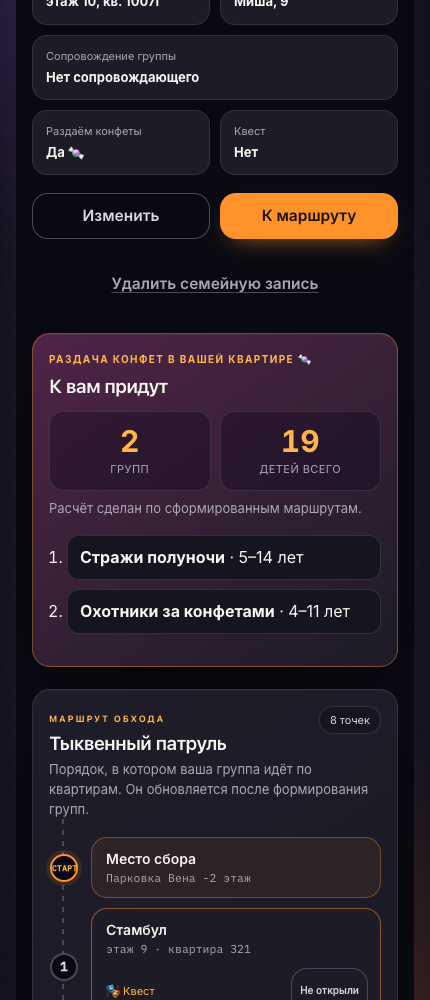
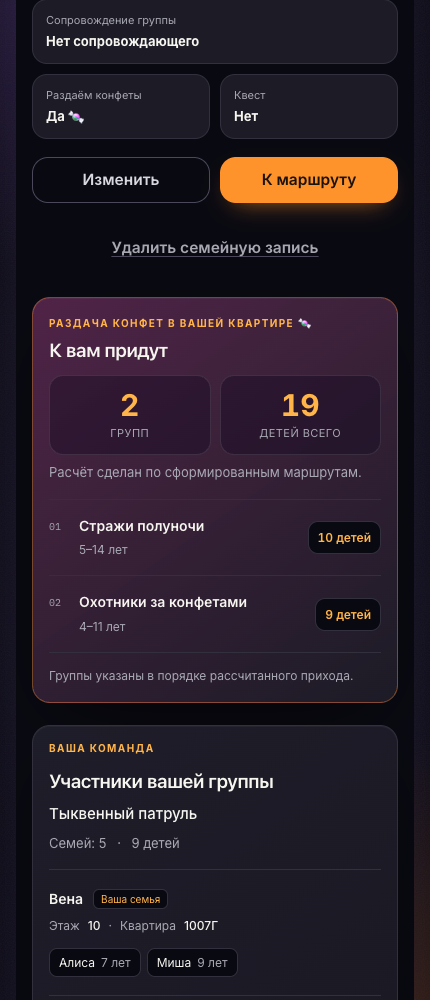
Release 1.0.29: show visiting counts and private group roster

diff --git a/public/app.js b/public/app.js
@@ -417,7 +417,7 @@
           <h2>Монстрополия</h2>
           <p>Собираем костюмы и конфеты</p>
           <span class="loading-track" aria-hidden="true"><i></i></span>
-          <span class="loading-version">Версия 1.0.28</span>
+          <span class="loading-version">Версия 1.0.29</span>
           <div class="loading-fallback" id="loadingFallback" hidden>
             <p>Загрузка заняла больше обычного. Проверьте соединение и попробуйте ещё раз.</p>
             <button class="loading-retry" type="button" onclick="window.__MONSTER_BOOT.retry()">Повторить загрузку</button>
@@ -844,7 +844,7 @@
       <div class="family-state-actions"><button id="editFamilyBtn" class="secondary">Изменить</button>
         <button id="showRouteBtn">К маршруту</button></div>
       <button id="deleteFamilyBtn" class="family-delete-button">Удалить семейную запись</button>
-    </section>${renderIncomingVisitsCard()}${state.group ? renderRouteCard() : family.walking ? renderWaitingCard() : ''}`;
+    </section>${renderIncomingVisitsCard()}${renderGroupMembersCard()}${state.group ? renderRouteCard() : family.walking ? renderWaitingCard() : ''}`;
     bindAdminButton();
     bindCountdown();
     bindTutorialButton();
@@ -870,7 +870,24 @@
       <h3>К вам придут</h3><div class="incoming-visits-grid">
         <div><strong>${visits.groupCount}</strong><span>групп</span></div>
         <div><strong>${visits.childCount}</strong><span>детей всего</span></div>
-      </div><p class="muted">${note}</p>${visits.groups?.length ? `<ol class="plain-list">${visits.groups.map((group) => `<li><strong>${esc(group.name)}</strong> · ${group.ageMin === null || group.ageMax === null ? 'возраст не указан' : group.ageMin === group.ageMax ? `${group.ageMin} лет` : `${group.ageMin}–${group.ageMax} лет`}</li>`).join('')}</ol>` : ''}</section>`;
+      </div><p class="muted">${note}</p>${visits.groups?.length ? `<ol class="gd-visitors" aria-label="Порядок прихода групп">${visits.groups.map((group) => `<li class="gd-visitor"><div><h4 class="gd-visitor-name">${esc(group.name)}</h4><p class="gd-age">${group.ageMin === null || group.ageMax === null ? 'Возраст не указан' : group.ageMin === group.ageMax ? `${group.ageMin} лет` : `${group.ageMin}–${group.ageMax} лет`}</p></div><span class="gd-count">${esc(pluralChildren(Number(group.childCount || 0)))}</span></li>`).join('')}</ol><p class="gd-note">Группы указаны в порядке рассчитанного прихода.</p>` : ''}</section>`;
+  }
+  function renderGroupMembersCard() {
+    const families = state.group?.families;
+    if (!families?.length) return '';
+    const childrenCount = families.reduce((sum, family) => sum + family.children.length, 0);
+    return `<section class="card gd-members" aria-labelledby="groupMembersTitle"><div class="countdown-kicker">Ваша команда</div>
+      <h3 id="groupMembersTitle">Участники вашей группы</h3><p class="gd-group-name">${esc(groupTitle(state.group))}</p>
+      <p class="gd-summary">Семей: ${families.length} <span aria-hidden="true">·</span> ${esc(pluralChildren(childrenCount))}</p>
+      <ul class="gd-families" aria-label="Семьи вашей группы">${families.map((family) => `<li class="gd-family">
+        <div class="gd-family-heading"><h4 class="gd-family-name">${esc(family.tower)}</h4>${family.isOwnFamily ? '<span class="gd-own">Ваша семья</span>' : ''}</div>
+        <p class="gd-address">Этаж <strong>${esc(family.floor)}</strong><span aria-hidden="true">·</span> Квартира <strong>${esc(family.apartmentCode)}</strong></p>
+        <ul class="gd-children" aria-label="Дети семьи">${family.children.map((child) => `<li class="gd-child">${esc(child.name)}<span>${esc(child.age)} ${ageWord(Number(child.age))}</span></li>`).join('')}</ul>
+      </li>`).join('')}</ul><p class="gd-note">Состав виден только семьям вашей группы.</p></section>`;
+  }
+  function ageWord(age) {
+    const mod10 = age % 10, mod100 = age % 100;
+    return mod10 === 1 && mod100 !== 11 ? 'год' : mod10 >= 2 && mod10 <= 4 && (mod100 < 12 || mod100 > 14) ? 'года' : 'лет';
   }
   function renderEditForm() {
     stopCountdown();

diff --git a/public/index.html b/public/index.html
@@ -200,11 +200,11 @@
 <link href="https://fonts.googleapis.com/css2?family=IBM+Plex+Mono:wght@400;500&amp;family=Inter:wght@400;500;600;700&amp;family=Space+Grotesk:wght@500;600;700&amp;display=swap" rel="stylesheet" media="print" onload="this.media='all'" />
 <noscript><link href="https://fonts.googleapis.com/css2?family=IBM+Plex+Mono:wght@400;500&amp;family=Inter:wght@400;500;600;700&amp;family=Space+Grotesk:wght@500;600;700&amp;display=swap" rel="stylesheet" /></noscript>
 <link rel="stylesheet" href="style.css?v=20260928-15" media="print" onload="window.__MONSTER_BOOT.resourceLoaded('base', this)" onerror="window.__MONSTER_BOOT.mark('resource_error', { resource: 'style.css' })" />
-<link rel="stylesheet" href="app-redesign.css?v=20261011-1" media="print" onload="window.__MONSTER_BOOT.resourceLoaded('redesign', this)" onerror="window.__MONSTER_BOOT.mark('resource_error', { resource: 'app-redesign.css' })" />
-<noscript><link rel="stylesheet" href="style.css?v=20260928-15" /><link rel="stylesheet" href="app-redesign.css?v=20261011-1" /></noscript>
+<link rel="stylesheet" href="app-redesign.css?v=1.0.29" media="print" onload="window.__MONSTER_BOOT.resourceLoaded('redesign', this)" onerror="window.__MONSTER_BOOT.mark('resource_error', { resource: 'app-redesign.css' })" />
+<noscript><link rel="stylesheet" href="style.css?v=20260928-15" /><link rel="stylesheet" href="app-redesign.css?v=1.0.29" /></noscript>
 <script defer src="platform-sdk.js?v=20260927-8" onload="window.__MONSTER_BOOT.mark('resource_loaded', { resource: 'platform-sdk.js' })" onerror="window.__MONSTER_BOOT.mark('resource_error', { resource: 'platform-sdk.js' })"></script>
 <script defer src="towers-config.js" onload="window.__MONSTER_BOOT.mark('resource_loaded', { resource: 'towers-config.js' })" onerror="window.__MONSTER_BOOT.mark('resource_error', { resource: 'towers-config.js' })"></script>
-<script defer src="app.js?v=1.0.28" onload="window.__MONSTER_BOOT.mark('resource_loaded', { resource: 'app.js' })" onerror="window.__MONSTER_BOOT.mark('resource_error', { resource: 'app.js' })"></script>
+<script defer src="app.js?v=1.0.29" onload="window.__MONSTER_BOOT.mark('resource_loaded', { resource: 'app.js' })" onerror="window.__MONSTER_BOOT.mark('resource_error', { resource: 'app.js' })"></script>
 </head>
 <body class="app-page">
   <div class="stage" aria-hidden="true"></div>
@@ -221,7 +221,7 @@
               <h2>Монстрополия</h2>
               <p>Собираем костюмы и конфеты</p>
               <span class="loading-track" aria-hidden="true"><i></i></span>
-              <span class="loading-version">Версия 1.0.28</span>
+              <span class="loading-version">Версия 1.0.29</span>
               <div class="loading-fallback" id="loadingFallback" hidden>
                 <p>Загрузка заняла больше обычного. Проверьте соединение и попробуйте ещё раз.</p>
                 <button class="loading-retry" type="button" onclick="window.__MONSTER_BOOT.retry()">Повторить загрузку</button>

diff --git a/public/app-redesign.css b/public/app-redesign.css
@@ -404,3 +404,27 @@
   .app-page .magic-orbit, .app-page .mote, .app-page .cd-n.magic-pop { animation: none !important; }
   .app-page .tutorial-slide.active { animation: none !important; }
 }
+.app-page .gd-visitors { margin: 16px 0 0; padding: 0; list-style: none; counter-reset: visits; }
+.app-page .gd-visitor { counter-increment: visits; display: grid; grid-template-columns: 20px minmax(0, 1fr) auto; gap: 10px; align-items: center; padding: 16px 0; border-top: 1px solid var(--border); }
+.app-page .gd-visitor::before { content: counter(visits, decimal-leading-zero); align-self: start; padding-top: 3px; color: var(--muted); font: 400 10px/1.5 var(--font-mono); }
+.app-page .gd-visitor-name { margin: 0; font-size: 14px; line-height: 1.45; font-weight: 600; overflow-wrap: anywhere; }
+.app-page .gd-age { margin: 5px 0 0; color: var(--muted); font-size: 12px; }
+.app-page .gd-count { padding: 8px 9px; border: 1px solid var(--border); border-radius: 10px; background: var(--ink); color: var(--accent-hi); font-size: 12px; font-weight: 600; white-space: nowrap; font-variant-numeric: tabular-nums; }
+.app-page .gd-members { animation: gd-enter .36s ease both; }
+.app-page .gd-members h3 { margin-bottom: 8px; }
+.app-page .gd-group-name { margin: 8px 0; font-size: 15px; font-weight: 500; overflow-wrap: anywhere; }
+.app-page .gd-summary { margin: 8px 0 16px; color: var(--muted); font-size: 13px; }
+.app-page .gd-summary span { margin-inline: 7px; }
+.app-page .gd-families { list-style: none; margin: 0; padding: 0; }
+.app-page .gd-family { padding: 18px 0; border-top: 1px solid var(--border); }
+.app-page .gd-family-heading { display: flex; flex-wrap: wrap; align-items: center; gap: 7px 10px; }
+.app-page .gd-family-name { margin: 0; font-size: 14px; line-height: 1.5; font-weight: 600; overflow-wrap: anywhere; }
+.app-page .gd-own { padding: 3px 7px; border: 1px solid var(--border); border-radius: 6px; color: var(--accent-hi); background: var(--ink); font-size: 10px; }
+.app-page .gd-address { display: flex; flex-wrap: wrap; gap: 4px 8px; margin: 8px 0 12px; color: var(--muted); font-size: 12px; }
+.app-page .gd-address strong { color: var(--fg); font-weight: 500; }
+.app-page .gd-children { display: flex; flex-wrap: wrap; gap: 6px; padding: 0; margin: 0; list-style: none; }
+.app-page .gd-child { display: inline-flex; flex-wrap: wrap; gap: 6px; max-width: 100%; border-radius: 8px; border: 1px solid var(--border); background: var(--ink); padding: 6px 9px; font-size: 12px; overflow-wrap: anywhere; }
+.app-page .gd-child span { color: var(--muted); }
+.app-page .gd-note { margin: 0; padding-top: 14px; border-top: 1px solid var(--border); color: var(--muted); font-size: 12px; }
+@keyframes gd-enter { from { opacity: 0; transform: translateY(6px); } to { opacity: 1; transform: none; } }
+@media (prefers-reduced-motion: reduce) { .app-page .gd-members { animation: none; } }

diff --git a/test/group-visibility.test.js b/test/group-visibility.test.js
@@ -1,0 +1,30 @@
+const test = require('node:test');
+const assert = require('node:assert/strict');
+process.env.DATABASE_PATH = ':memory:';
+const { db } = require('../db');
+const router = require('../routes/families');
+const me = router.stack.find((layer) => layer.route?.path === '/me' && layer.route.methods.get).route.stack[0].handle;
+
+test('состав своей группы не раскрывает состав приходящих или чужих групп', () => {
+  const family = db.prepare('INSERT INTO families(id, family_code, tower, floor, apartment_code, hosting, created_at) VALUES (?, ?, ?, 1, ?, 1, 0)');
+  const child = db.prepare('INSERT INTO children(family_id, name, age) VALUES (?, ?, ?)');
+  for (const [id, name, age] of [['own', 'Алиса', 7], ['friend', 'Миша', 9], ['other', 'Чужой ребёнок', 14], ['host', 'Хозяин', 10]]) {
+    family.run(id, id.toUpperCase(), 'Вена', id);
+    child.run(id, name, age);
+    db.prepare('INSERT INTO parent_links(platform, platform_user_id, family_id) VALUES (\'dev\', ?, ?)').run(id, id);
+  }
+  db.prepare('INSERT INTO groups(id, name, child_count) VALUES (\'ours\', \'Тыквята\', 2), (\'theirs\', \'Стражи\', 1)').run();
+  db.prepare('INSERT INTO group_members(group_id, family_id) VALUES (\'ours\', \'own\'), (\'ours\', \'friend\'), (\'theirs\', \'other\')').run();
+  db.prepare("INSERT INTO route_stops(group_id, host_id, seq, tower, floor, arrival_min) VALUES ('theirs', 'own', 1, 'Вена', 1, 0), ('ours', 'host', 1, 'Вена', 1, 0)").run();
+  let result;
+  me({ platform: 'dev', platformUserId: 'own' }, { json(value) { result = value; } });
+  assert.equal(result.group.families.length, 2);
+  assert.ok(result.group.families.some((entry) => entry.isOwnFamily));
+  assert.equal(result.incomingVisits.groups[0].childCount, 1);
+  assert.equal(JSON.stringify(result).includes('Чужой ребёнок'), false);
+  assert.equal(JSON.stringify(result.group.families).includes('familyCode'), false);
+  me({ platform: 'dev', platformUserId: 'host' }, { json(value) { result = value; } });
+  assert.equal(result.group, null);
+  assert.equal(result.incomingVisits.groups[0].childCount, 2);
+  assert.equal(JSON.stringify(result.incomingVisits).includes('Алиса'), false);
+});

diff --git a/routes/families.js b/routes/families.js
@@ -132,7 +132,7 @@ function incomingVisitsForFamily(family) {
   return {
     groupCount: visitingGroups.length,
     childCount: visitingGroups.reduce((sum, group) => sum + Number(group.child_count || 0), 0),
-    groups: visitingGroups.map((group) => ({ name: group.name, ageMin: group.age_min, ageMax: group.age_max })),
+    groups: visitingGroups.map((group) => ({ name: group.name, ageMin: group.age_min, ageMax: group.age_max, childCount: Number(group.child_count || 0) })),
   };
 }
 
@@ -336,6 +336,14 @@ router.get('/me', (req, res) => {
       id: groupInfo.id,
       name: groupInfo.name || groupInfo.id,
       startLocation: groupInfo.start_location || DEFAULT_GROUP_START_LOCATION,
+      families: db.prepare(`SELECT f.id, f.tower, f.floor, f.apartment_code
+        FROM group_members gm JOIN families f ON f.id = gm.family_id
+        WHERE gm.group_id = ? ORDER BY f.tower, f.floor, f.apartment_code`).all(groupInfo.id)
+        .map((member) => ({
+          isOwnFamily: member.id === family.id,
+          tower: member.tower, floor: member.floor, apartmentCode: member.apartment_code,
+          children: db.prepare('SELECT name, age FROM children WHERE family_id = ? ORDER BY age, id').all(member.id),
+        })),
     } : null,
     route: groupInfo ? routeForFamily(family) : null,
     incomingVisits: incomingVisitsForFamily(family),

diff --git a/README.md b/README.md
@@ -16,6 +16,12 @@
 |---|---|
 | <img src="docs/screenshots/family.png" width="340" alt="Семейный код, адрес и дети" /> | <img src="docs/screenshots/incoming-groups.png" width="340" alt="Количество визитов и список групп с диапазонами возрастов" /> |
 
+### Участники своей группы
+
+<img src="docs/screenshots/group-members.png" width="340" alt="Семьи своей группы: адреса, имена детей и возраст" />
+
+Персональный состав виден только семьям своей группы. Принимающие квартиры видят у приходящих групп название, возрастной диапазон и количество детей, без персонального списка посетителей.
+
 ### Маршрут группы
 
 <img src="docs/screenshots/route.png" width="340" alt="Место сбора и маршрут с адресами, квестами и конфетами" />
